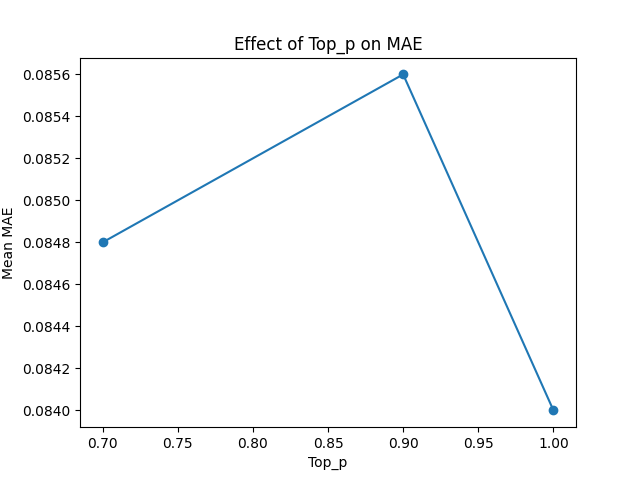
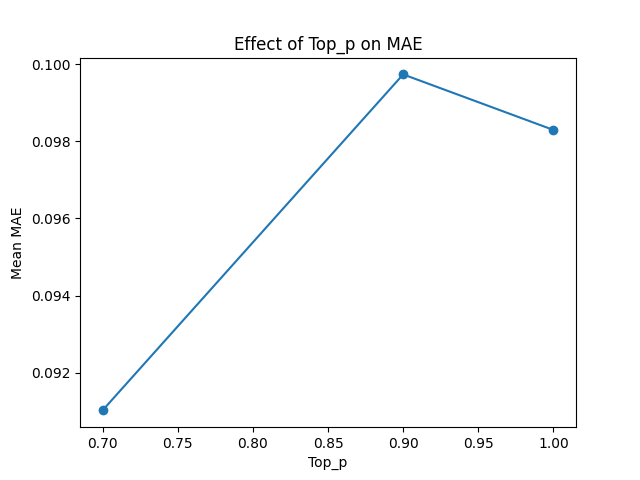
Update experiment pipeline and analysis (correlation fix, heatmap debugging)

diff --git a/experiments/run_experiment.py b/experiments/run_experiment.py
@@ -1,51 +1,34 @@
-from src.data_loader import load_data
-from src.generation import generate_profile
+from src.generation import generate_profile, generate_behavior_from_traits
 from src.evaluation import parse_traits, compute_mae
 from src.config import *
+from src.twin2k_loader import load_twin2k
 
+from scipy.stats import pearsonr
+import numpy as np
 import pandas as pd
 import os
 
-print("Script Startet")
+print(">>> RUN_EXPERIMENT STARTED")
 
 
 def run():
-    df = load_data("data/test_data.csv")
+    df = load_twin2k()
+    df = df.sample(20, random_state=42)  # 🔥 limit for faster testing
 
     results = []
 
-    for temp in TEMPERATURES:
+    for temp_pred in TEMPERATURES:
+        print(f"\n>>> Running temp_pred={temp_pred}")
         for top_p in TOP_P_VALUES:
-            for _, row in df.iterrows():
+            print(f">>> Running top_p={top_p}")
 
-                prompt = f"""
-Based on the following behavior:
+            temp_text = 0.8  # fixed for text generation
 
-{row['input']}
+            predictions = []
+            ground_truth = []
 
-Estimate Big Five personality traits (values between 0 and 1).
-
-There may be uncertainty in the personality estimation.
-Reflect this uncertainty in your scores.
-
-Format:
-Extraversion: X
-Agreeableness: X
-Conscientiousness: X
-Neuroticism: X
-Openness: X
-"""
-
-                # 👉 API CALL
-                generated = generate_profile(prompt, temp, top_p)
-
-                # 👉 Debug (kannst du später entfernen)
-                print("PROMPT:", row["input"])
-                print("GENERATED:", generated)
-
-                pred_traits = parse_traits(generated)
-
-                print("PARSED:", pred_traits)
+            for i, (_, row) in enumerate(df.iterrows()):
+                print(f"Processing sample {i+1}/{len(df)}")
 
                 true_traits = {
                     "Extraversion": row["Extraversion"],
@@ -55,18 +38,82 @@ Openness: X
                     "Openness": row["Openness"]
                 }
 
+                # STEP 1: generate behavior text
+                behavior_text = generate_behavior_from_traits(true_traits, temp_text, top_p)
+
+                # STEP 2: predict traits from behavior
+                prompt = f"""
+Based on the following behavior:
+
+{behavior_text}
+
+Estimate Big Five personality traits (values between 0 and 1).
+
+IMPORTANT:
+- Output ONLY a single number per trait
+- Do NOT include ranges, ±, explanations, or text
+- Use decimal values between 0 and 1
+
+Format:
+Extraversion: X
+Agreeableness: X
+Conscientiousness: X
+Neuroticism: X
+Openness: X
+"""
+
+                generated = generate_profile(prompt, temp_pred, top_p)
+                pred_traits = parse_traits(generated)
+
+                # 🔥 FIX: ungültige Predictions rausfiltern
+                if len(pred_traits) != 5:
+                    continue
+
+                if any(v is None for v in pred_traits.values()):
+                    continue
+
+                pred_values = list(pred_traits.values())
+                true_values = list(true_traits.values())
+
+                predictions.append(pred_values)
+                ground_truth.append(true_values)
+
                 score = compute_mae(pred_traits, true_traits)
 
-                print("MAE:", score)
-                print("------")
-
                 results.append({
-                    "temperature": temp,
+                    "temperature": temp_pred,
+                    "temp_pred": temp_pred,
+                    "temp_text": temp_text,
                     "top_p": top_p,
-                    "input": row["input"],
+                    "input": behavior_text,
                     "generated": generated,
-                    "mae": score
+                    "mae": score,
+                    "type": "sample"
                 })
+
+            # 🔥 Safety checks before correlation
+            if len(predictions) < 5:
+                print("⚠ Too few valid samples – skipping correlation")
+                continue
+
+            flat_pred = np.array(predictions).flatten()
+            flat_true = np.array(ground_truth).flatten()
+
+            if len(set(flat_pred)) < 2:
+                print("⚠ No variance in predictions – skipping correlation")
+                continue
+
+            corr, _ = pearsonr(flat_pred, flat_true)
+
+            results.append({
+                "temperature": temp_pred,
+                "temp_pred": temp_pred,
+                "temp_text": temp_text,
+                "top_p": top_p,
+                "correlation": corr,
+                "n_samples": len(predictions),
+                "type": "aggregate"
+            })
 
     return results
 
@@ -76,7 +123,6 @@ def get_next_filename(folder="results", base="output"):
         os.makedirs(folder)
 
     existing_files = os.listdir(folder)
-
     numbers = []
 
     for file in existing_files:
@@ -88,13 +134,11 @@ def get_next_filename(folder="results", base="output"):
                 pass
 
     next_number = max(numbers) + 1 if numbers else 1
-
     return f"{folder}/{base}_{next_number}.csv"
 
 
 if __name__ == "__main__":
     results = run()
-
     df = pd.DataFrame(results)
 
     filename = get_next_filename()

diff --git a/analysis/analyze_results.py b/analysis/analyze_results.py
@@ -3,31 +3,62 @@ import matplotlib.pyplot as plt
 import os
 
 # 👉 Pfad zu deiner neuesten Datei anpassen
-FILE_PATH = "results/output_2.csv"
+FILE_PATH = "results/output_6.csv"  # 🔁 ggf. anpassen auf neueste Datei
 
+
+# 🔧 1. Datei laden
 df = pd.read_csv(FILE_PATH)
+
+
+print("COLUMNS:", df.columns)
+print("SHAPE:", df.shape)
+
+if "correlation" in df.columns:
+    print("Correlation Werte:", df["correlation"].describe())
+else:
+    print("❌ KEINE correlation Spalte vorhanden")
 
 print("=== Überblick ===")
 print(df.head())
 print("\nAnzahl Zeilen:", len(df))
 
+# 🔧 2. Daten trennen (robust gegen fehlende "type"-Spalte)
+if "type" in df.columns:
+    agg = df.loc[df["type"] == "aggregate"]
+    samples = df.loc[df["type"] == "sample"]
+else:
+    print("⚠ 'type' Spalte nicht gefunden – fallback wird verwendet")
+
+    # gesamte Daten als samples behandeln
+    samples = df.copy()
+
+    # aggregate selbst berechnen (nur wenn correlation existiert)
+    if "correlation" in df.columns:
+        agg = df[df["correlation"].notna()].copy()
+    else:
+        agg = pd.DataFrame(columns=df.columns)
+
+# 🔧 Fallback: Falls keine correlation existiert → selbst berechnen (optional)
+if "correlation" not in df.columns:
+    print("⚠ Keine 'correlation' Spalte gefunden – Heatmap wird übersprungen")
+
+print("Anzahl agg rows:", len(agg))
 
 # -----------------------------
-# 📊 Durchschnitt nach temperature
+# 📊 Durchschnitt nach temperature (MAE)
 # -----------------------------
-temp_group = df.groupby("temperature")["mae"].mean().reset_index()
+temp_group = samples.groupby("temperature")["mae"].mean().reset_index()
 
 print("\n=== Durchschnitt MAE nach Temperature ===")
 print(temp_group)
 
 # -----------------------------
-# 📊 Durchschnitt nach top_p
+# 📊 Durchschnitt nach top_p (MAE)
 # -----------------------------
-top_p_group = df.groupby("top_p")["mae"].mean().reset_index()
+top_p_group = samples.groupby("top_p")["mae"].mean().reset_index()
 
 print("\n=== Durchschnitt MAE nach top_p ===")
 print(top_p_group)
-
 
 # -----------------------------
 # 📊 Plot: Temperature vs MAE
@@ -41,8 +72,6 @@ plt.title("Effect of Temperature on MAE")
 os.makedirs("analysis", exist_ok=True)
 plt.savefig("analysis/temperature_vs_mae.png")
 plt.close()
-print("\nPlot gespeichert: analysis/temperature_vs_mae.png")
-
 
 # -----------------------------
 # 📊 Plot: top_p vs MAE
@@ -55,4 +84,35 @@ plt.title("Effect of Top_p on MAE")
 
 plt.savefig("analysis/top_p_vs_mae.png")
 plt.close()
-print("Plot gespeichert: analysis/top_p_vs_mae.png")
+
+# -----------------------------
+# 🔥 NEU: Heatmap (Correlation)
+# -----------------------------
+# 🔥 Heatmap nur wenn correlation vorhanden
+if "correlation" in agg.columns and not agg.empty:
+
+    pivot = agg.pivot_table(
+        index="temp_pred" if "temp_pred" in agg.columns else "temperature",
+        columns="top_p",
+        values="correlation",
+        aggfunc="mean"
+    )
+
+    plt.figure()
+    plt.imshow(pivot, aspect='auto')
+    plt.colorbar(label="Correlation")
+
+    plt.xticks(range(len(pivot.columns)), pivot.columns)
+    plt.yticks(range(len(pivot.index)), pivot.index)
+
+    plt.xlabel("top_p")
+    plt.ylabel("temp_pred / temperature")
+    plt.title("Correlation Heatmap")
+
+    plt.savefig("analysis/heatmap_correlation.png")
+    plt.close()
+else:
+    print("⚠ Heatmap übersprungen (keine correlation Daten)")
+
+print("\n✅ Analyse abgeschlossen!")
+print("📊 Plots gespeichert im analysis/ Ordner")

diff --git a/src/twin2k_loader.py b/src/twin2k_loader.py
@@ -1,0 +1,22 @@
+import pandas as pd
+
+
+def load_twin2k():
+    df1 = pd.read_csv("data/mega_persona_summary_csv/wave 1 scores.csv")
+    df2 = pd.read_csv("data/mega_persona_summary_csv/wave 2 scores.csv")
+    df3 = pd.read_csv("data/mega_persona_summary_csv/wave 3 scores.csv")
+
+    df = pd.concat([df1, df2, df3], ignore_index=True)
+
+    processed = []
+
+    for _, row in df.iterrows():
+        processed.append({
+            "Extraversion": row["score_extraversion"] / 5,
+            "Agreeableness": row["score_agreeableness"] / 5,
+            "Conscientiousness": row["score_conscientiousness"] / 5,
+            "Neuroticism": row["score_neuroticism"] / 5,
+            "Openness": row["score_openness"] / 5
+        })
+
+    return pd.DataFrame(processed)

diff --git a/src/generation.py b/src/generation.py
@@ -24,3 +24,20 @@ def generate_profile(prompt, temperature, top_p):
     )
 
     return response.choices[0].message.content
+
+def generate_behavior_from_traits(traits, temperature, top_p):
+    prompt = f"""
+You are given a person's Big Five personality traits.
+
+Extraversion: {traits['Extraversion']}
+Agreeableness: {traits['Agreeableness']}
+Conscientiousness: {traits['Conscientiousness']}
+Neuroticism: {traits['Neuroticism']}
+Openness: {traits['Openness']}
+
+Write a realistic and detailed description of this person's behavior in daily life.
+Focus on observable actions, habits, and social interactions.
+Do NOT mention numbers or trait labels.
+"""
+
+    return generate_profile(prompt, temperature, top_p)
